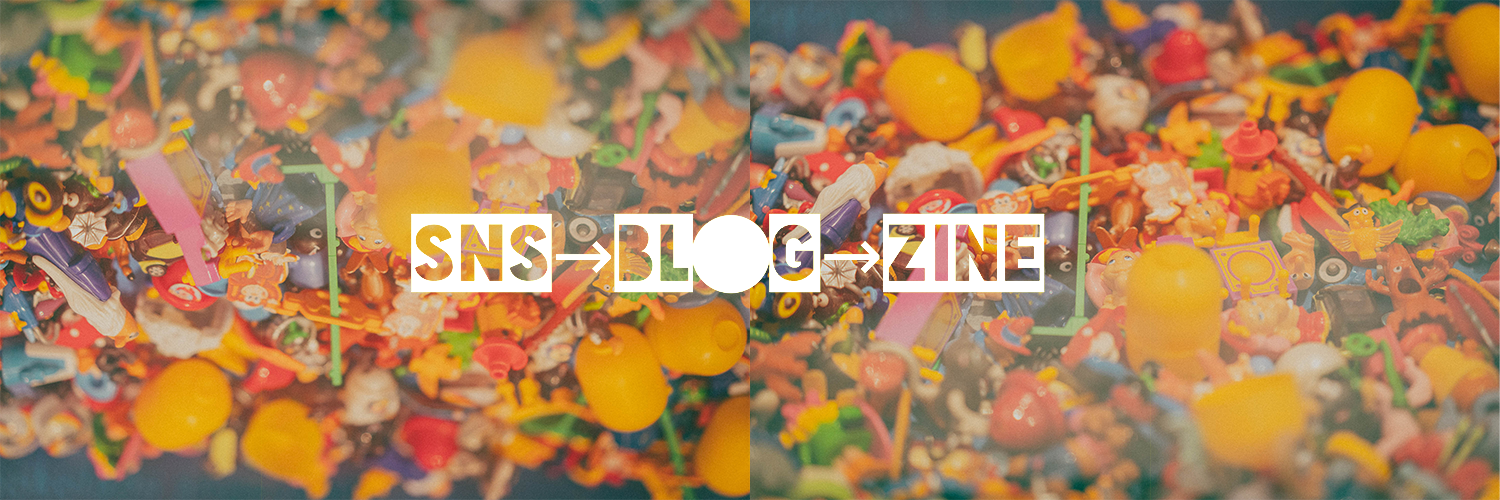
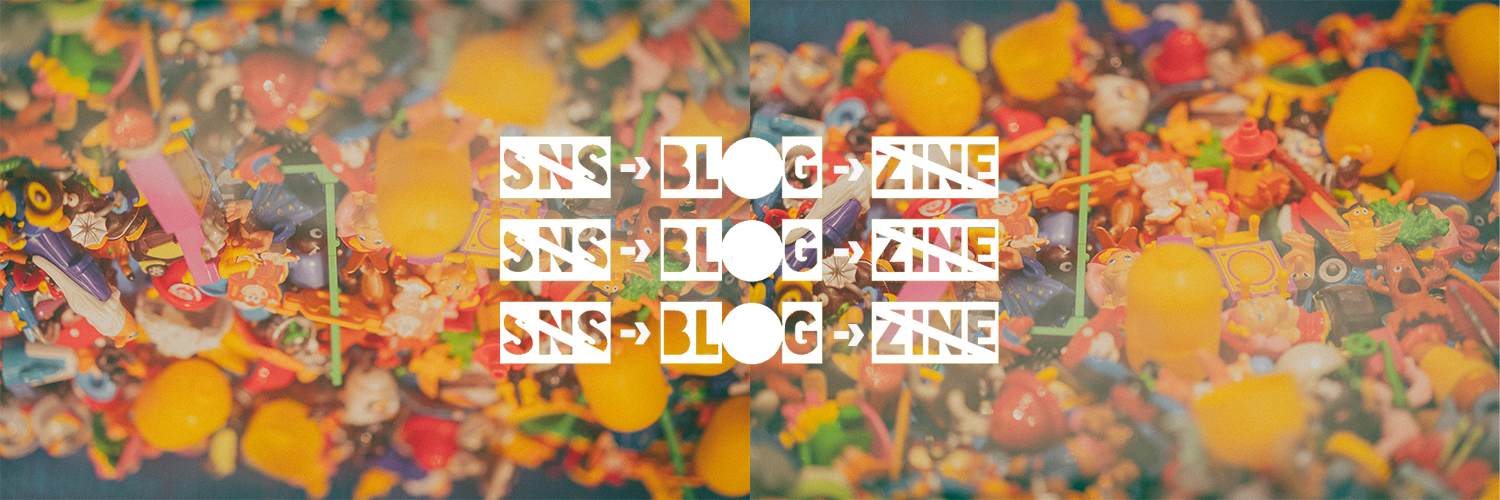
Design

Changed region(s): [[0.276, 0.27, 0.7053, 0.75]]

diff --git a/src/templates/blog-post.js b/src/templates/blog-post.js
@@ -125,7 +125,7 @@ export const pageQuery = graphql`
         tags
         thumbnail {
           childImageSharp {
-            gatsbyImageData(width: 600, height: 300)
+            gatsbyImageData(width: 600, height: 380)
           }
         }
       }

diff --git a/src/style.css b/src/style.css
@@ -346,7 +346,7 @@ a:focus {
 }
 
 .hero {
-  margin: var(--spacing-0) var(--spacing-0) var(--spacing-10) var(--spacing-0);
+  margin: var(--spacing-10) var(--spacing-0) var(--spacing-10) var(--spacing-0);
   border-radius: 50px;
 }
 

diff --git a/content/blog/AI時代に人間らしさ copy 6/index.md b/content/blog/AI時代に人間らしさ copy 6/index.md
@@ -1,9 +1,9 @@
 ---
-title: AI時代に人間らしさを追求する
-date: "2024-02-12"
-description: シンギュラリティによって生き方はどう変化するのか、人間らしさについて考えてみる
-thumbnail: "./Markdown.jpg"
-tags: ["考察", "哲学"]
+title: ロゴ 「SNS BLOG ZINE」の意味とデザイン
+date: "2024-02-15"
+description: サイトのロゴについてそこに込めた意味とデザインについて
+thumbnail: "./LOGO.jpg"
+tags: ["デザイン", "創作"]
 ---
 
 ### 価値観の変化が加速している
